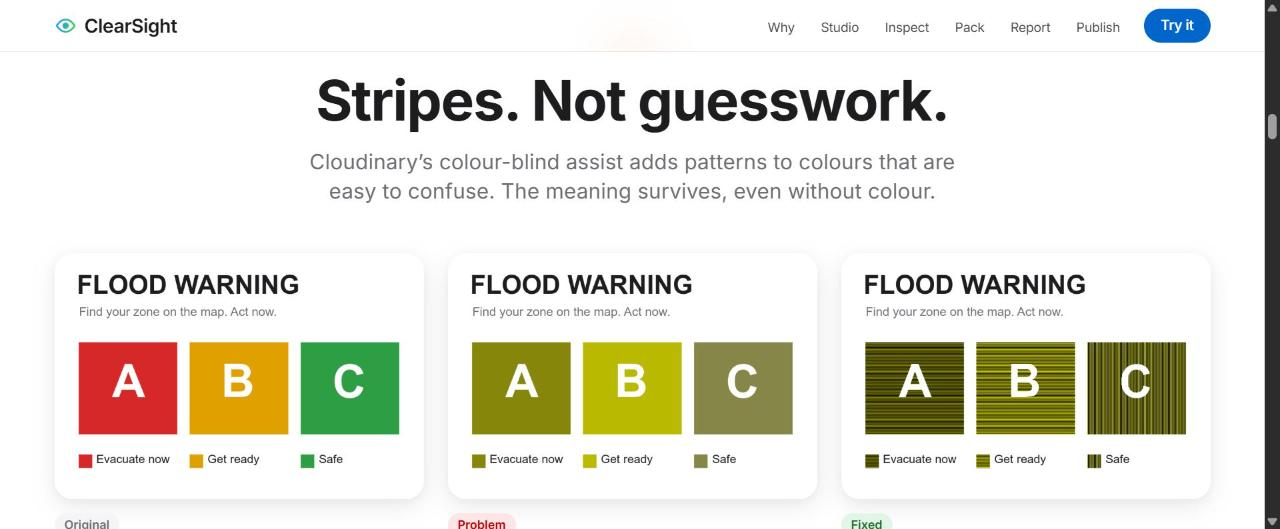
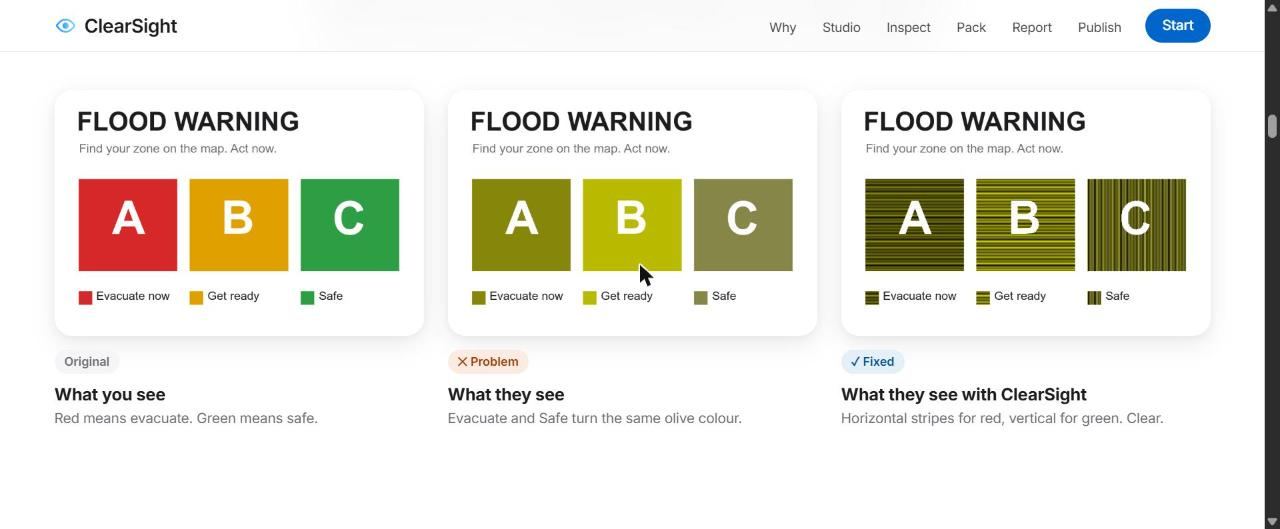
Reliable copy button and refreshed screenshots
- Copy falls back to a legacy copy if the Clipboard API stalls, and always confirms
- New hero, fix and maker's-note screenshots in the README

diff --git a/site/index.html b/site/index.html
@@ -966,16 +966,26 @@
     toastTimer = setTimeout(() => t.classList.remove("show"), 2600);
   }
 
+  function legacyCopy(text) {
+    const active = document.activeElement;
+    const ta = el("textarea"); ta.value = text; ta.setAttribute("readonly", ""); ta.style.position = "fixed"; ta.style.opacity = "0";
+    document.body.appendChild(ta); ta.select();
+    let ok = false;
+    try { ok = document.execCommand("copy"); } catch (err) {}
+    ta.remove();
+    if (active && active.focus) active.focus({ preventScroll: true });
+    return ok;
+  }
+
+  // The Clipboard API can stay pending (e.g. a permission prompt), so give it a moment, then fall back.
   async function copyText(text, label) {
-    try {
-      await navigator.clipboard.writeText(text);
-    } catch (e) {
-      const ta = el("textarea"); ta.value = text; ta.setAttribute("readonly", ""); ta.style.position = "fixed"; ta.style.opacity = "0";
-      document.body.appendChild(ta); ta.select();
-      try { document.execCommand("copy"); } catch (err) {}
-      ta.remove();
+    let ok = false;
+    if (navigator.clipboard && navigator.clipboard.writeText) {
+      const timeout = new Promise((_, reject) => setTimeout(() => reject(new Error("timeout")), 1200));
+      try { await Promise.race([navigator.clipboard.writeText(text), timeout]); ok = true; } catch (e) {}
     }
-    toast(label || "Copied");
+    if (!ok) ok = legacyCopy(text);
+    toast(ok ? (label || "Copied") : "Couldn’t copy automatically. Select the text and copy it.");
   }
 
   function saveBlob(blob, name) {

diff --git a/README.md b/README.md
@@ -130,6 +130,8 @@ clearsight/
 
 ## Author
 
+![Why I built this](docs/screenshots/note.jpg)
+
 **Bhavishya Sharma** designed and built ClearSight as an open-source project, so anyone publishing public information can make it readable for everyone. Find me on GitHub: [@Sharmabhavishya](https://github.com/Sharmabhavishya).
 
 Ideas, issues and pull requests are welcome.
